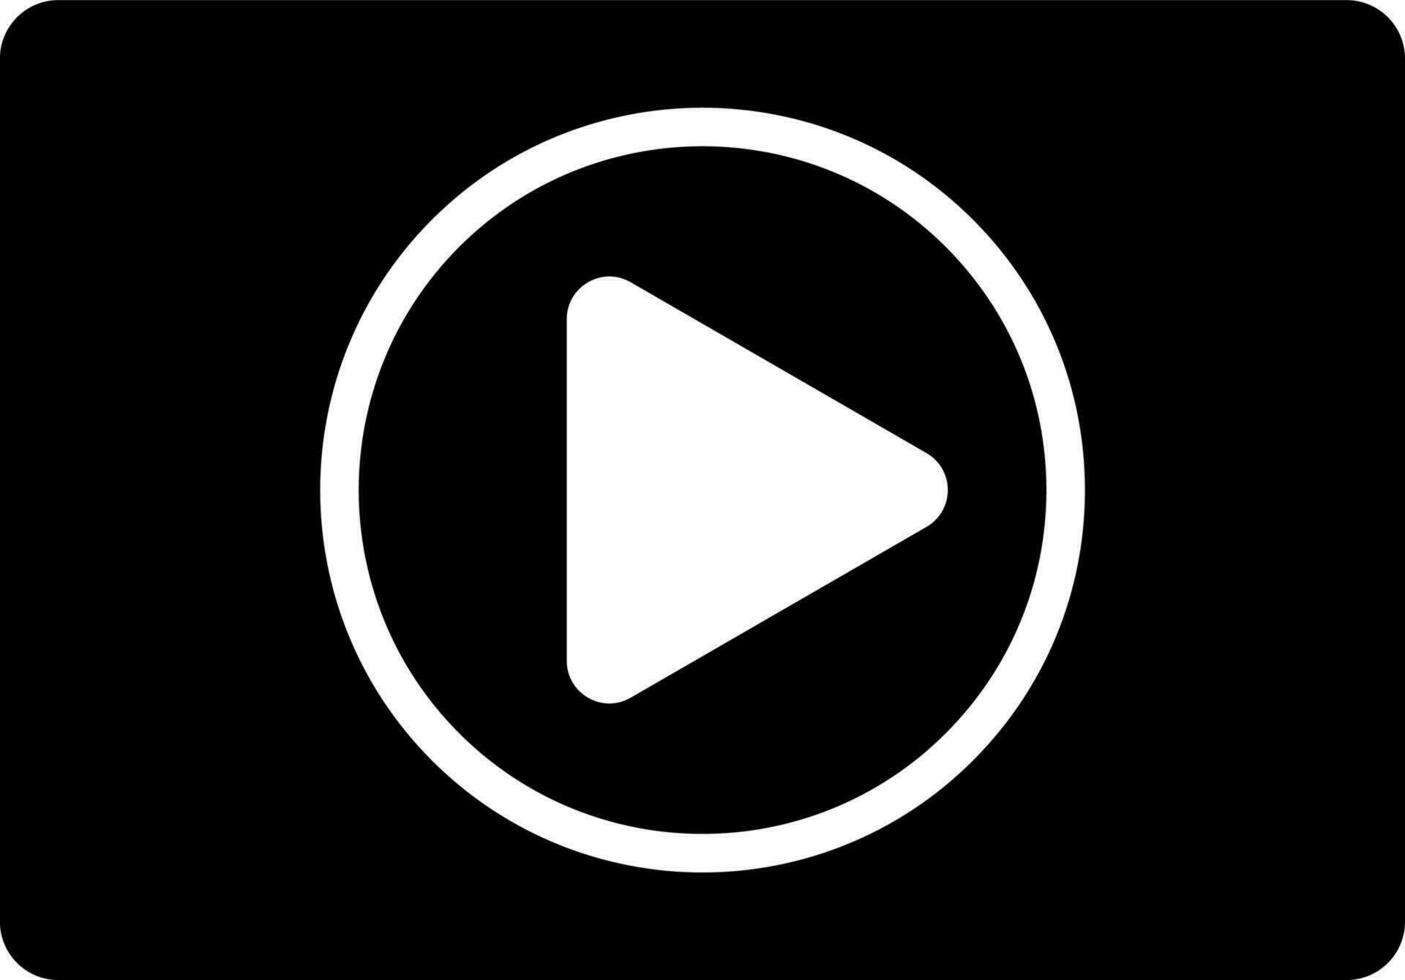
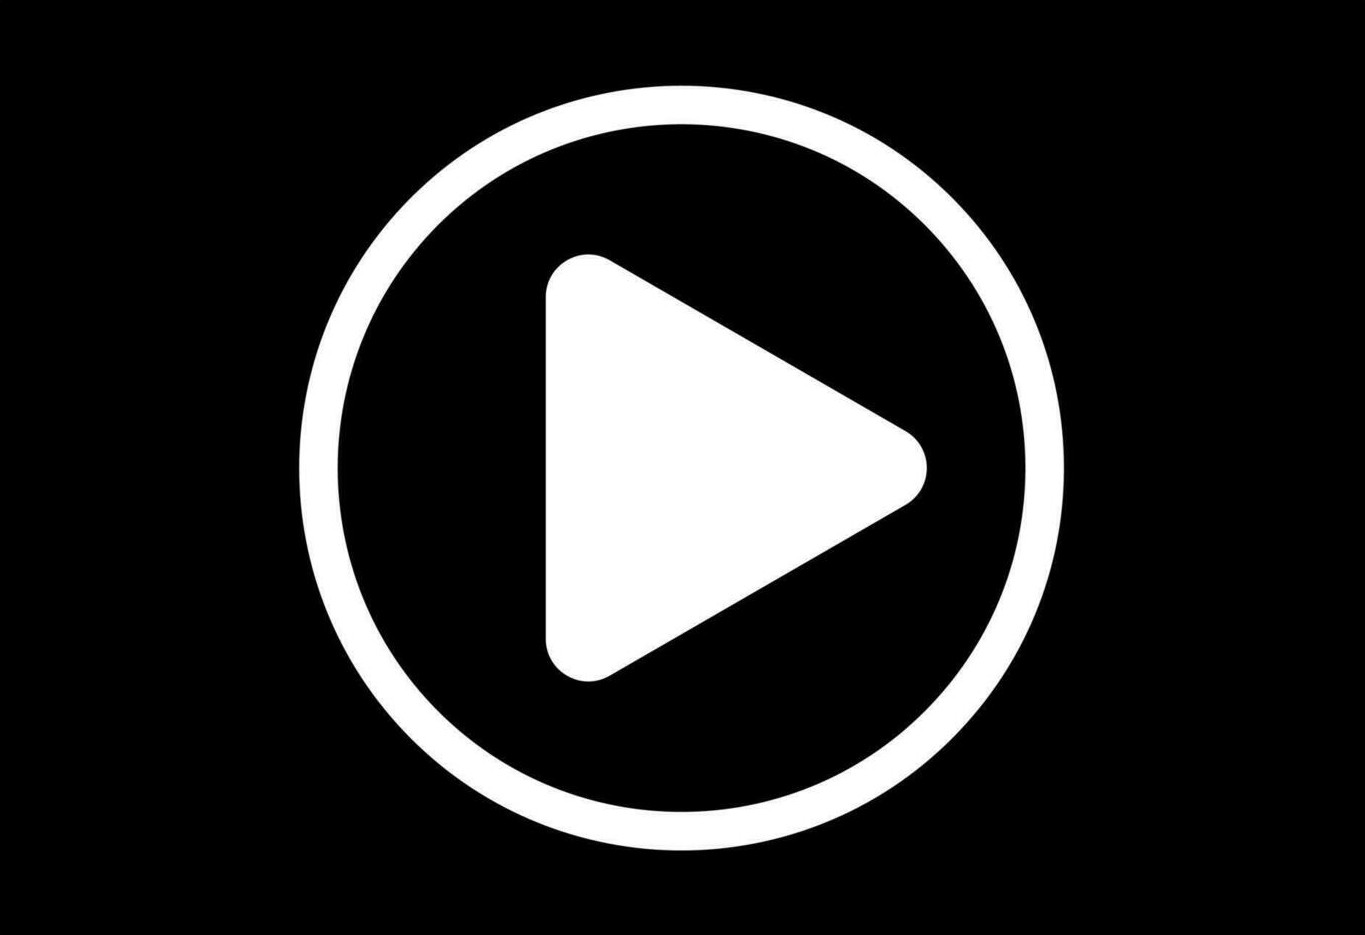
add template divs and images, change color and fix some style

diff --git a/index.html b/index.html
@@ -16,25 +16,55 @@
     </ul>
   </header>
   <main>
-    <figure id="playerContainer">
-      <video id="main-video" preload="metadata" poster="media/img/preview.jpg" playsinline>
-        <source src="video.webm" type="video/webm; codecs='vp9, opus'">
-        <source src="video.mp4" type="video/mp4; codecs='avc1.42E01E, mp4a.40.2'">
-        <p>Error cargando video, el navegador no lo soporta.</p>
-     </video>
-      <!-- Interfaz de controles personalizada -->
-      <div id="video-controls" class="controls">
-        <!-- Botones y sliders definidos aquí -->
-        <button id="play-button">Play</button>
-        <button id="reset-button">Reset</button>
-        <button id="seek-backward-button">Seek bw</button>
-        <button id="seek-forward-button">Seek fw</button>
-        <button id="mute-button">Mute</button>
-        <div id="progress-bar">Progress bar</div>
-        <button id="settings-button">Settings</button>
-        <button id="fullscreen-button">Fullscreen</button>
+    <div id="content">
+      <div id="top-container">
+        <figure id="player-container">
+          <video id="main-video" preload="metadata" poster="media/img/preview.jpg" playsinline>
+            <source src="media/video/video.webm" type="video/webm; codecs='vp9, opus'">
+            <source src="media/video/video.mp4" type="video/mp4; codecs='avc1.42E01E, mp4a.40.2'">
+            <p>Error cargando video, el navegador no lo soporta.</p>
+          </video>
+          <!-- Interfaz de controles personalizada -->
+          <div id="video-controls" class="controls">
+            <!-- Botones y sliders definidos aquí -->
+            <button id="play-button">Play</button>
+            <button id="reset-button">Reset</button>
+            <button id="seek-backward-button">Seek bw</button>
+            <button id="seek-forward-button">Seek fw</button>
+            <button id="mute-button">Mute</button>
+            <div id="progress-bar">Progress bar</div>
+            <button id="settings-button">Settings</button>
+            <button id="fullscreen-button">Fullscreen</button>
+          </div>
+        </figure>
+        <div id="location" class="container" style="width: 400px; height: 250px;">Wikipedia</div>
+        <div id="description" class="container" style="width: 400px; height: 250px;">Location</div>
       </div>
-    </figure>
+      <div id="bottom-container">
+        <figure id="related-movies" class="container">
+          <figcaption>Peliculas parecidas</figcaption>
+          <div>
+            <img class="related-movie" src="media/img/start-wars-the-force-awakens.webp">
+            <img class="related-movie" src="media/img/start-wars-the-force-awakens.webp">
+            <img class="related-movie" src="media/img/start-wars-the-force-awakens.webp">
+          </div>
+        </figure>
+        <figure id="actors-info" class="container">
+          <div class="actor">
+            <img src="media/img/harrison-ford.jpg">
+            <p>Harrison Ford</p>
+          </div>
+          <div class="actor">
+            <img src="media/img/harrison-ford.jpg">
+            <p>Harrison Ford</p>
+          </div>
+          <div class="actor">
+            <img src="media/img/harrison-ford.jpg">
+            <p>Harrison Ford</p>
+          </div>
+        </figure>
+      </div>
+    </div>
   </main>
   <footer>
     <p>Práctica GDIE Jaume & Pau Curso 2025-26</p>

diff --git a/style.css b/style.css
@@ -1,8 +1,18 @@
+body {
+    margin: 0px;
+}
+
+/* Header */
 header {
     display: flex;
     align-items: center;
     justify-content: space-between;
-    background-color: greenyellow;
+    background-color: rgb(194, 96, 96);
+    transition: background-color 0.2s ease-in-out; /* Smooth fade effect */
+}
+
+header:hover {
+    background-color: rgb(204, 204, 204);
 }
 
 header img {
@@ -20,20 +30,77 @@ header ul li {
     list-style-type: none;
 }
 
+/* Main content */
 main {
-    background-color: coral;
+    background-color: rgb(155, 40, 40);
+    border: 1px solid black;
 }
 
 #main-video {
     background-color: black;
-    width: 360px;
+    width: 650px;
+    height: 400px;
 }
 
 #video-controls {
     display: flex;
     background-color: grey;
 }
+
+.container {
+    background-color: rgba(255, 255, 255, 0.33);
+    padding: 16px;
+    border-radius: 12px;
+}
+
+/* Top container */
+#top-container {
+    display: flex;
+    justify-content: space-around;
+}
+
+/* Bottom container */
+#bottom-container {
+    display: flex;
+    justify-content: space-around;
+}
+
+/* Related movies */
+#related-movies {
+    background-color: rgba(255, 255, 255, 0.33);
+    padding: 16px;
+}
+
+#related-movies div {
+    display: flex;
+    justify-content: center;
+    align-items: center;
+    gap: 12px;
+}
+
+img.related-movie {
+    width: 150px;
+    height: 220px;
+}
+
+/* Actors from the movie */
+#actors-info {
+    display: flex;
+    justify-content: center;
+    align-items: center;
+    background-color: rgba(255, 255, 255, 0.33);
+    padding: 16px;
+    gap: 12px;
+}
+
+.actor img{
+    width: 150px;
+    height: 220px;
+}
+
 footer {
     background-color: black;
     color: white;
+    border: 1px solid black;
+    text-align: center;
 }
